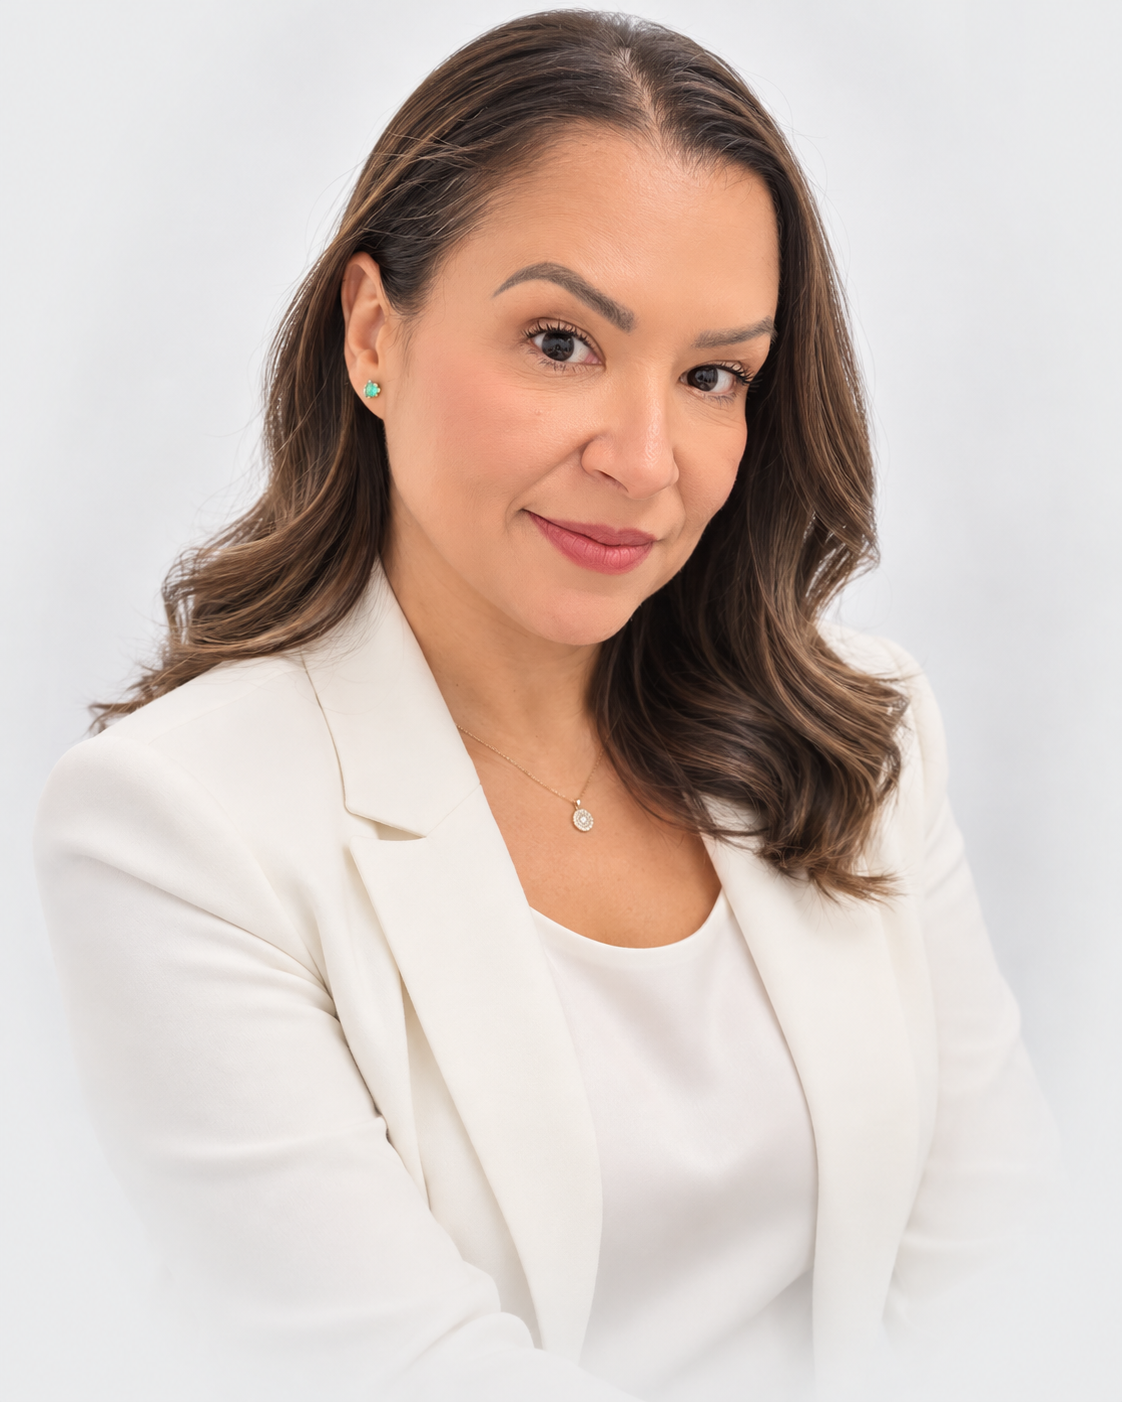
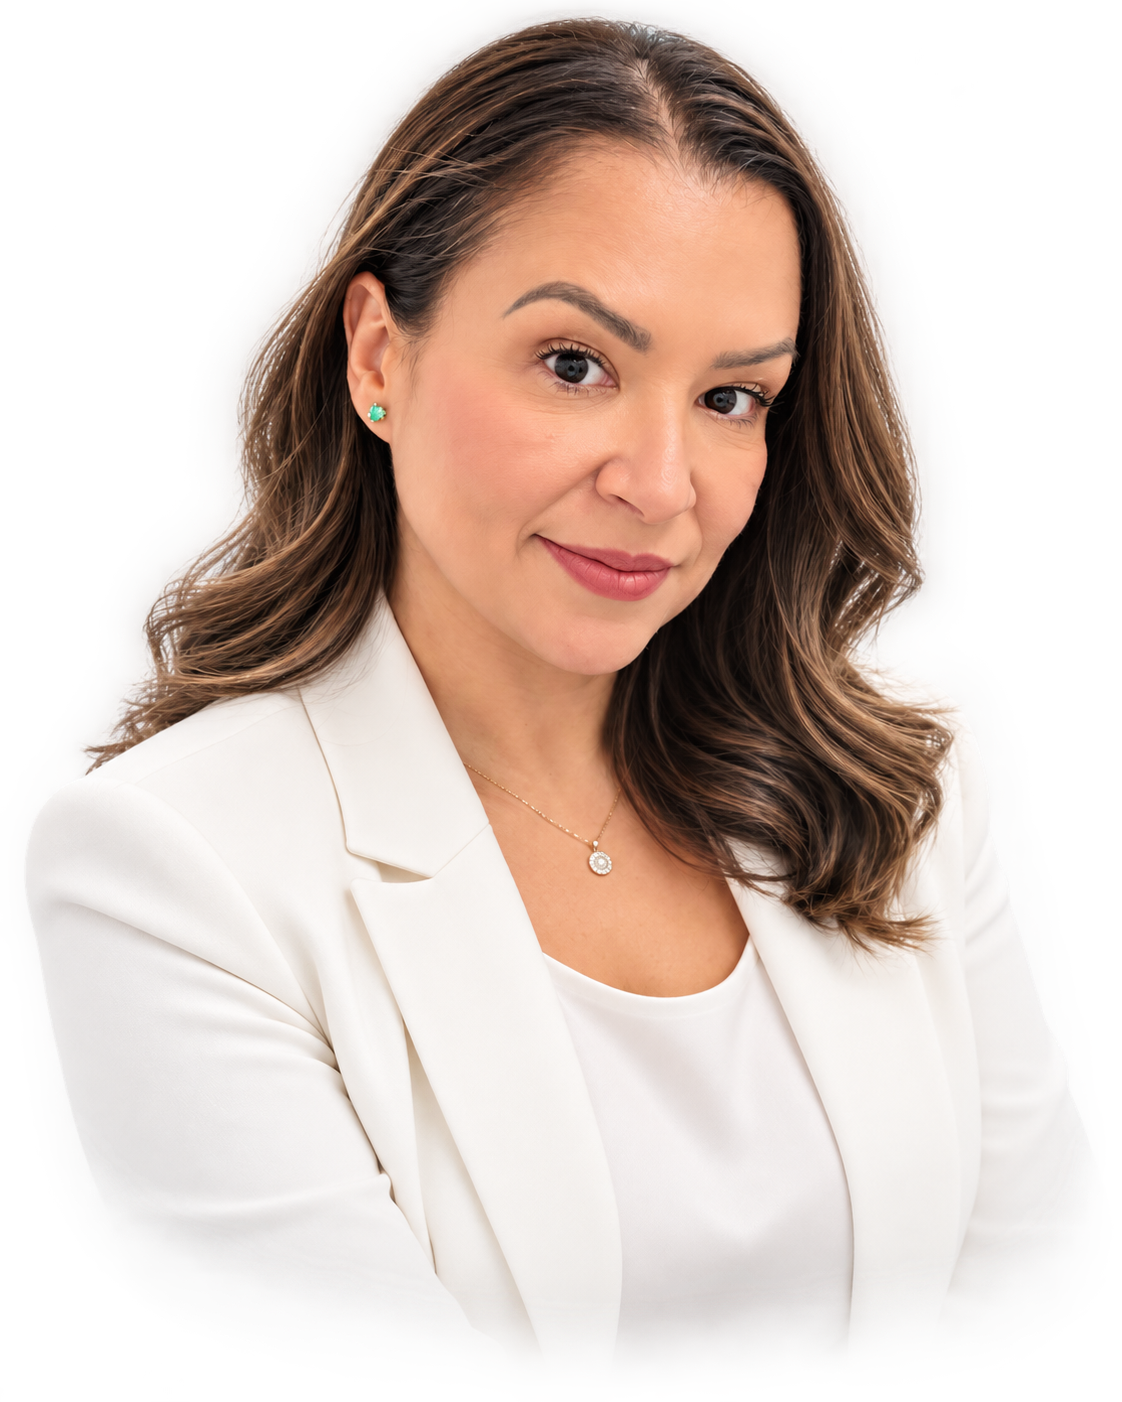
feat: hero mobile usa mesma imagem do desktop (image_hero.png)

diff --git a/index.html b/index.html
@@ -205,7 +205,7 @@
   <!-- ═══════════════════════════════════════════════════════════
        PERFORMANCE: Preload hero image, fontes e recursos críticos
   ═══════════════════════════════════════════════════════════ -->
-  <link rel="preload" as="image" href="./assets/images/image_hero_mobile_opt.webp" type="image/webp" media="(max-width: 767px)">
+  <link rel="preload" as="image" href="./assets/images/image_hero.png" media="(max-width: 767px)">
   <link rel="preload" as="image" href="./assets/images/image_hero.png" media="(min-width: 768px)">
   <link rel="preconnect" href="https://api.whatsapp.com">
 
@@ -231,8 +231,7 @@
         <a class="cta" data-contact href="https://api.whatsapp.com/send?phone=5532988042418">Quero agendar meu atendimento<i data-lucide="circle-arrow-right" aria-hidden="true"></i></a>
       </div>
       <picture>
-        <source srcset="./assets/images/image_hero_mobile_opt.webp" type="image/webp">
-        <img class="mobile-photo" src="./assets/images/image_hero_mobile.png" alt="Letícia Nogueira Aragão, psicóloga em Belo Horizonte" fetchpriority="high" width="882" height="1402">
+        <img class="mobile-photo" src="./assets/images/image_hero.png" alt="Letícia Nogueira Aragão, psicóloga em Belo Horizonte" fetchpriority="high" width="882" height="1402">
       </picture>
     </section>
 
